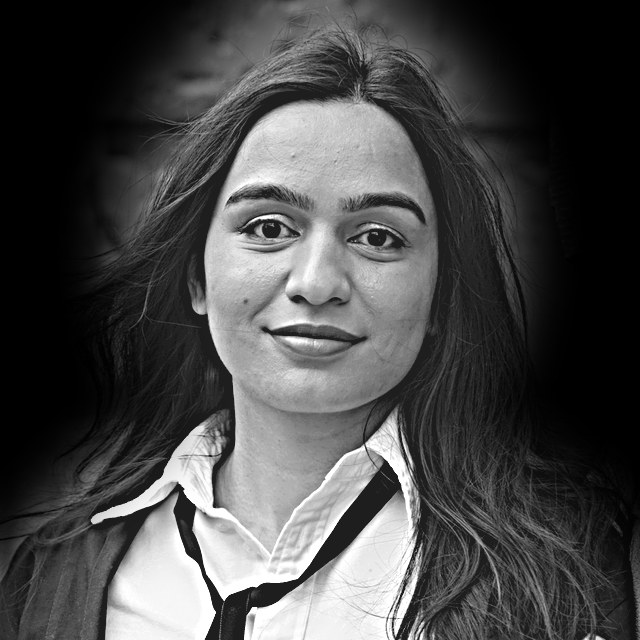
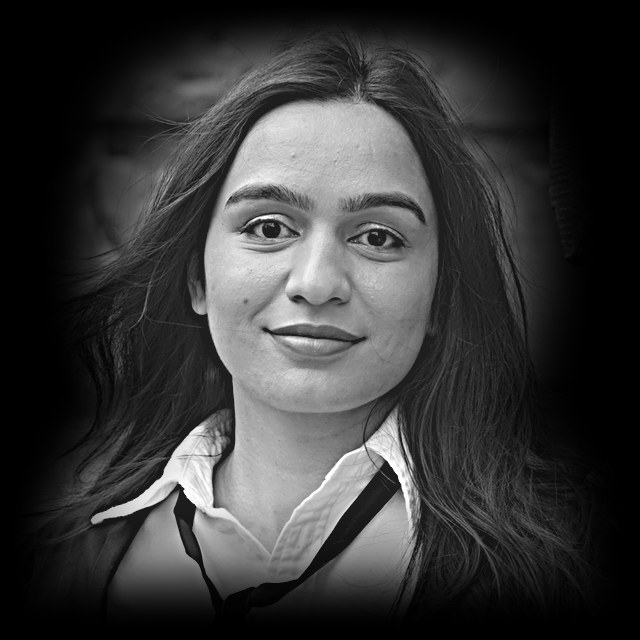
Soften the photo glow and end on sd initials
The glow now uses its own unsharpened, warm-tinted image with edges
feathered to black, drawn over an opaque canvas so it can only brighten
the page. The bits image shares the same feathered mask, and the
contact section forms the initials sd.

Claude-Session: https://claude.ai/code/session_01CQcz9KKGxqtdHswZ2wwCiK

diff --git a/index.html b/index.html
@@ -193,9 +193,12 @@ footer { padding-block: 40px 56px; font-size: 13px; color: var(--faint); }
   const reduce = matchMedia('(prefers-reduced-motion: reduce)').matches;
   const finePointer = matchMedia('(pointer: fine)').matches;
   const TONES = { hi: '#F2B263', mid: '#D7DCE4', lo: '#4A5568' };
+  const BG = getComputedStyle(document.documentElement).getPropertyValue('--bg').trim() || '#0B0E13';
   const SPRITE = 18;
   const FIELD_SIZE = 9;
   const PHOTO_SRC = 'portrait.jpg';
+  const GLOW_SRC = 'portrait-glow.png';
+  let glowImg = null;
 
   let W = 0, H = 0, DPR = 1, N = 0;
   let particles = [], scenes = [], sprites = {}, centers = [];
@@ -351,26 +354,6 @@ footer { padding-block: 40px 56px; font-size: 13px; color: var(--faint); }
     };
   }
 
-  function drawInfinity(x, S) {
-    const gr = x.createLinearGradient(0, 0, S, S);
-    gr.addColorStop(0, '#ffffff');
-    gr.addColorStop(1, '#6a6a6a');
-    x.strokeStyle = gr;
-    x.lineWidth = S * 0.09;
-    x.lineJoin = 'round';
-    const a = S * 0.42;
-    x.beginPath();
-    for (let i = 0; i <= 360; i++) {
-      const t = (i / 360) * Math.PI * 2;
-      const d = 1 + Math.sin(t) ** 2;
-      const px = S / 2 + (a * Math.cos(t)) / d;
-      const py = S / 2 + (a * Math.sin(t) * Math.cos(t)) / d;
-      if (i) x.lineTo(px, py); else x.moveTo(px, py);
-    }
-    x.closePath();
-    x.stroke();
-  }
-
   // Layout ------------------------------------------------------------
   function boxes() {
     const desktop = W >= 860;
@@ -429,7 +412,7 @@ footer { padding-block: 40px 56px; font-size: 13px; color: var(--faint); }
     buildHero();
     scenes[1] = sampleScene(textShape('</>', 0.34), b.side, sideStrength);
     scenes[2] = sampleScene(textShape('{ }', 0.42), b.side, sideStrength);
-    scenes[3] = sampleScene(drawInfinity, b.side, sideStrength);
+    scenes[3] = sampleScene(textShape('sd', 0.6), b.side, sideStrength);
     measureCenters();
 
     if (firstBuild) {
@@ -467,14 +450,17 @@ footer { padding-block: 40px 56px; font-size: 13px; color: var(--faint); }
     const time = now * 0.001;
     const size = (wa * A.size + wf * FIELD_SIZE + wb * B.size) * 1.2;
 
-    ctx.clearRect(0, 0, W, H);
+    // Paint the page colour (not transparent) so the additive glow can only brighten, never darken.
+    ctx.globalAlpha = 1;
+    ctx.fillStyle = BG;
+    ctx.fillRect(0, 0, W, H);
     // A faint copy of the photo under the bits gives the face its tonal shape; it fades as the face dissolves.
     if (photo && glow && i0 === 0) {
       const intro = reduce ? 1 : Math.min(1, (now - introStart) / 1200);
       const hb = heroBox;
       ctx.globalCompositeOperation = 'lighter';
-      ctx.globalAlpha = 0.2 * wa * intro * intro;
-      ctx.drawImage(photo, hb.x, hb.y - scrollY * 0.6, hb.w, hb.h);
+      ctx.globalAlpha = 0.26 * wa * intro * intro;
+      ctx.drawImage(glowImg || photo, hb.x, hb.y - scrollY * 0.6, hb.w, hb.h);
       ctx.globalCompositeOperation = 'source-over';
     }
     for (let k = 0; k < N; k++) {
@@ -539,6 +525,9 @@ footer { padding-block: 40px 56px; font-size: 13px; color: var(--faint); }
     img.onload = () => { photo = img; go(); };
     img.onerror = go;
     img.src = PHOTO_SRC;
+    const gimg = new Image();
+    gimg.onload = () => { glowImg = gimg; };
+    gimg.src = GLOW_SRC;
   }
 
   (document.fonts && document.fonts.ready ? document.fonts.ready : Promise.resolve()).then(start);
